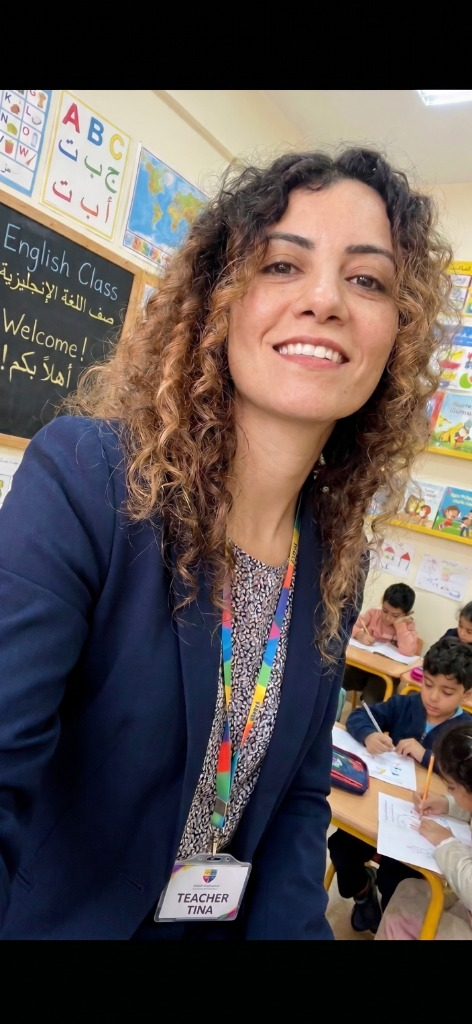
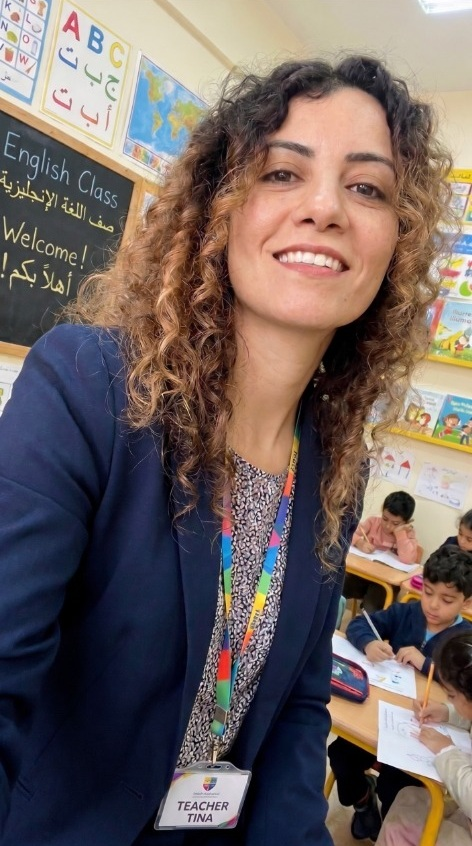
fix(gallery): remove black letterbox bars on portrait and fix aspect ratio cropping in spotlight photo card

diff --git a/src/features/landing/ParentLandingPage.tsx b/src/features/landing/ParentLandingPage.tsx
@@ -238,7 +238,7 @@ export const ParentLandingPage: React.FC = () => {
                 <img
                   src={TINA_CONFIG.realPhotos.welcoming}
                   alt="Teacher Tina in classroom"
-                  className="w-full h-80 sm:h-96 object-cover object-top"
+                  className="w-full h-96 sm:h-[480px] object-cover object-center"
                 />
 
                 {/* Floating Real Proof Card */}
@@ -459,23 +459,25 @@ export const ParentLandingPage: React.FC = () => {
             const currentItem =
               realGallery.find((g) => g.key === activePhotoKey) || realGallery[0];
             return (
-              <div className="bg-gradient-to-r from-purple-50 via-pink-50 to-amber-50 rounded-3xl p-6 sm:p-8 border-4 border-purple-200/60 shadow-xl grid grid-cols-1 md:grid-cols-12 gap-6 items-center">
-                <div className="md:col-span-7 rounded-2xl overflow-hidden shadow-lg border-3 border-white max-h-96 bg-gray-100">
-                  <img
-                    src={currentItem.src}
-                    alt={currentItem.title}
-                    className="w-full h-full object-cover object-top hover:scale-102 transition-transform duration-300"
-                  />
+              <div className="bg-gradient-to-r from-purple-50 via-pink-50 to-amber-50 rounded-3xl p-6 sm:p-8 border-4 border-purple-200/60 shadow-xl grid grid-cols-1 md:grid-cols-12 gap-8 items-center">
+                <div className="md:col-span-5 flex justify-center">
+                  <div className="w-full max-w-sm aspect-[3/4] sm:h-[460px] rounded-2xl overflow-hidden shadow-lg border-3 border-white bg-slate-100 relative group">
+                    <img
+                      src={currentItem.src}
+                      alt={currentItem.title}
+                      className="w-full h-full object-cover object-center group-hover:scale-102 transition-transform duration-300"
+                    />
+                  </div>
                 </div>
-                <div className="md:col-span-5 space-y-4 text-center md:text-left">
+                <div className="md:col-span-7 space-y-4 text-center md:text-left">
                   <div className="inline-flex items-center gap-1.5 text-xs font-fredoka font-black text-amber-700 bg-amber-100 px-3 py-1 rounded-full border border-amber-200">
                     <Star size={14} className="fill-amber-600" />
                     <span>Real Classroom Snapshot</span>
                   </div>
-                  <h3 className="font-fredoka text-2xl font-black text-[#26324A]">
+                  <h3 className="font-fredoka text-2xl sm:text-3xl font-black text-[#26324A]">
                     {currentItem.title}
                   </h3>
-                  <p className="font-nunito text-sm text-gray-700 font-bold leading-relaxed">
+                  <p className="font-nunito text-base text-gray-700 font-bold leading-relaxed max-w-lg">
                     {currentItem.desc}
                   </p>
                   <div className="pt-2">
@@ -483,9 +485,9 @@ export const ParentLandingPage: React.FC = () => {
                       href={getWhatsAppLink()}
                       target="_blank"
                       rel="noopener noreferrer"
-                      className="inline-flex items-center gap-2 px-5 py-2.5 rounded-xl bg-[#25D366] hover:bg-[#1EBE5D] text-white font-fredoka font-bold text-xs sm:text-sm shadow-md"
+                      className="inline-flex items-center gap-2 px-6 py-3 rounded-2xl bg-[#25D366] hover:bg-[#1EBE5D] text-white font-fredoka font-bold text-sm shadow-md transition-all"
                     >
-                      <MessageCircle size={16} />
+                      <MessageCircle size={18} />
                       <span>Message Teacher Tina</span>
                     </a>
                   </div>
@@ -507,11 +509,11 @@ export const ParentLandingPage: React.FC = () => {
                     : 'border-gray-200 bg-white hover:border-gray-300'
                 }`}
               >
-                <div className="w-full aspect-square rounded-xl overflow-hidden mb-2 bg-gray-100">
+                <div className="w-full aspect-[4/5] rounded-xl overflow-hidden mb-2 bg-gray-100">
                   <img
                     src={photo.src}
                     alt={photo.title}
-                    className="w-full h-full object-cover object-top"
+                    className="w-full h-full object-cover object-center"
                   />
                 </div>
                 <span className="font-fredoka text-xs font-bold text-[#26324A] text-center line-clamp-1">
